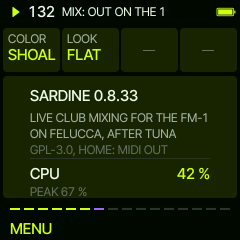
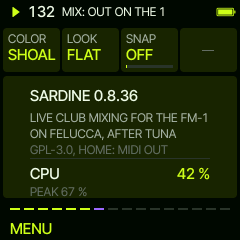
0.8.37: SNAP, OFF by default: the keys play the notes as pressed
MENU (HOME held) KNOB 3: SNAP OFF (default) plays and writes the key as
pressed, off the harmony too; ON snaps it to the scale as before. Kept in
the preferences.

Claude-Session: https://claude.ai/code/session_01VgesZgNNDFiPGvKyDTZVUK

Changed region(s): [[0.525, 0.1167, 0.7292, 0.2917], [0.525, 0.3792, 0.5833, 0.4375]]

diff --git a/firmware/src/sa_fw.c b/firmware/src/sa_fw.c
@@ -186,7 +186,7 @@ static void sa_audio_post(int32_t *out, uint32_t n)
 #define SA_PREF_MAGIC 0x31504153u                            /* "SAP1" */
 #define SA_SET_MAGIC 0x31534153u                             /* "SAS1" */
 #define SA_REC_MAGIC 0x32524153u                             /* "SAR2": 0.2..0.5's groove, moved into set 1 once */
-typedef struct { uint32_t magic, boots; uint8_t look, pad[3]; sv_song song; uint8_t midi_ch[4], midi_ok, pad2[3]; } sa_prefs;   /* (song, then MIDI: appended) */
+typedef struct { uint32_t magic, boots; uint8_t look, pad[3]; sv_song song; uint8_t midi_ch[4], midi_ok, snap, pad2[2]; } sa_prefs;   /* (song, then MIDI: appended) */
 #define SA_PREFS_OLD 12u                                     /* (0.7's: no song) */
 typedef struct { uint32_t magic; uint16_t size, ver; sa_settings s; } sa_record;
 #define SA_SET_PER 3u                                        /* sets to an object */
@@ -327,6 +327,7 @@ static void sa_prefs_save(void)
                                                               * before it, the ones kept stay) */
         sa_pref.song = sa_u.song;
         memcpy(sa_pref.midi_ch, sa_u.midi_ch, sizeof sa_pref.midi_ch);
+        sa_pref.snap = sa_g.snap;                            /* (0.8.37: was a pad byte, 0: OFF) */
         sa_pref.midi_ok = 2;                                 /* (2: 0.8.6 .. 0.8.20 kept 1 with every channel OFF,
                                                               * saved at boot before the screen was up: not read) */
     }
@@ -703,6 +704,7 @@ static void sa_fw_init(void)
     sa_edit_reset(&sa_g);
     sa_set_sound(&sa_g, sa_sound, 0);
     sv_init(&sa_u, &sa_g);
+    sa_g.snap = sa_pref.snap == 1;                           /* SNAP as kept, OFF by default */
     {   /* SONG as kept (none kept, or all END: sets 1..4, sv_init's) */
         bool any = false;
         for (int k = 0; k < SV_STEPS; ++k) any |= sa_pref.song.set[k] != 0;
@@ -973,7 +975,8 @@ static void sa_frame(void)
     was_playing = sa_g.playing;
     if (sa_dirty && !sa_g.playing && now - sa_save_ms > SA_LAST_MS) {   /* the look; LAST, when the groove changed */
         if (sa_g.s.look != sa_pref_look || memcmp(&sa_u.song, &sa_pref.song, sizeof sa_u.song) ||
-            memcmp(sa_u.midi_ch, sa_pref.midi_ch, sizeof sa_u.midi_ch)) sa_prefs_save();
+            memcmp(sa_u.midi_ch, sa_pref.midi_ch, sizeof sa_u.midi_ch) || sa_g.snap != (sa_pref.snap == 1))
+            sa_prefs_save();
         uint32_t sig = sv_hashb(2166136261u, &sa_g.s, sizeof sa_g.s) | 1u;
         if (sig != sa_last_sig && sa_set_write(SV_LAST, &sa_g.s)) {
             sa_last_sig = sig;

diff --git a/tests/sa_layer_test.c b/tests/sa_layer_test.c
@@ -164,16 +164,21 @@ int main(void)
     CHECK(g.ed[BS].sn[0] == 48 - 9, "the note is kept above the key (%d)", g.ed[BS].sn[0]);
     sa_step_note(&g, BS, 2, 45);                     /* step 3: A2, ROLLER's own A2 there: it goes */
     CHECK(g.ed[BS].sn[2] == SA_NO_NOTE, "the same note again: off (%d)", g.ed[BS].sn[2]);
-    sa_step_note(&g, BS, 4, 49);                     /* C#3: not in A minor, snapped to C3 or D3 */
-    CHECK(g.ed[BS].sn[4] == 48 - 9 || g.ed[BS].sn[4] == 50 - 9, "snapped to the scale (%d)", g.ed[BS].sn[4]);
+    sa_step_note(&g, BS, 4, 49);                     /* (0.8.37) C#3, SNAP OFF (the default): as pressed */
+    CHECK(g.ed[BS].sn[4] == 49 - 9, "SNAP OFF: the note as pressed (%d)", g.ed[BS].sn[4]);
+    g.snap = true;                                   /* SNAP ON: C#3 not in A minor, snapped to C3 or D3 */
+    sa_step_note(&g, BS, 5, 49);
+    CHECK(g.ed[BS].sn[5] == 48 - 9 || g.ed[BS].sn[5] == 50 - 9, "SNAP ON: snapped to the scale (%d)", g.ed[BS].sn[5]);
+    g.snap = false;
     sa_step_len(&g, BS, 0, 3);
     CHECK(g.ed[BS].sl[0] == 4, "the length: 4 sixteenths (%d)", g.ed[BS].sl[0]);
     sa_drop(&g);
     sa_play(&g, true);
     clear_log();
     run_bars(&g, 1);
-    CHECK(LG.on[2][48] == 1 + (g.s.code[BS].sn[4] == 48 - 9), "the own C3 plays (%d)", LG.on[2][48]);
-    CHECK(LG.per_part[2] == 9, "ROLLER's 8 notes, one off, two on: 9, got %d", LG.per_part[2]);
+    CHECK(LG.on[2][48] == 1 + (g.s.code[BS].sn[5] == 48 - 9), "the own C3 plays (%d)", LG.on[2][48]);
+    CHECK(LG.on[2][49] == 1, "the C#3 as pressed plays (%d)", LG.on[2][49]);
+    CHECK(LG.per_part[2] == 10, "ROLLER's 8 notes, one off, three on: 10, got %d", LG.per_part[2]);
     /* a chord layer: a key toggles the chord */
     sa_play(&g, false);
     sa_init(&g, SR);

diff --git a/tests/sa_ui_test.c b/tests/sa_ui_test.c
@@ -923,16 +923,22 @@ int main(int argc, char **argv)
     ui.cpu_peak = 67;
     ui.shed = 0;
     shot("20_menu");
-    {   /* (0.8.34) KNOB 3 and 4 over MENU's empty cards: nothing, not even a redraw */
+    {   /* (0.8.34) KNOB 4 over MENU's empty card: nothing, not even a redraw */
         sv_draw(&ui);
         ui.hot_ms = 0;
         int d0 = (int)sv_draws_total();
-        sv_knob(&ui, SV_K3, 1);
         sv_knob(&ui, SV_K4, -1);
         sv_draw(&ui);
-        CHECK(ui.hot_ms == 0 && (int)sv_draws_total() == d0, "MENU, KNOB 3 and 4 (empty cards): nothing drawn again (%d)",
+        CHECK(ui.hot_ms == 0 && (int)sv_draws_total() == d0, "MENU, KNOB 4 (an empty card): nothing drawn again (%d)",
               (int)sv_draws_total() - d0);
     }
+    /* (0.8.37) SNAP, MENU's KNOB 3: the keys to the scale, OFF by default (an off note is the player's to play) */
+    CHECK(!g.snap, "SNAP: OFF by default");
+    sv_knob(&ui, SV_K3, 1);
+    CHECK(g.snap && strstr(ui.msg, "SNAP"), "KNOB 3 right: SNAP ON (%s)", ui.msg);
+    shot("20s_menu_snap");
+    sv_knob(&ui, SV_K3, -1);
+    CHECK(!g.snap, "KNOB 3 left: SNAP OFF, the keys as pressed");
     press(SV_B_HOME);
     CHECK(ui.page == SV_PG_MENU && ui.menu2 && ui.midi_ch[0] == 1 && ui.midi_ch[3] == 10, "MENU, HOME: MIDI OUT, LEAD on 1, DRUMS on 10");
     sv_knob(&ui, SV_K2, -2);

diff --git a/firmware/src/sa_ui.c b/firmware/src/sa_ui.c
@@ -417,7 +417,7 @@ static void sv_cards_of(sa_ui *u, sv_card *c)
         }
         sv_card_txt(&c[0], "COLOR", UI_PALETTES[s->palette % NPALETTES].name, -1, false);
         sv_card_txt(&c[1], "LOOK", s->look ? "LINE" : "FLAT", -1, false);
-        sv_card_off(&c[2]);
+        sv_card_txt(&c[2], "SNAP", u->g->snap ? "ON" : "OFF", u->g->snap ? 1000 : 0, false);   /* (0.8.37) */
         sv_card_off(&c[3]);
         return;
     default: break;
@@ -1997,6 +1997,12 @@ void sv_knob(sa_ui *u, int k, int d)
         }
         if (i == 0) s->palette = (uint8_t)sv_wrap(s->palette + d, (int)NPALETTES);
         else if (i == 1) s->look = (uint8_t)!s->look;
+        else if (i == 2) {                         /* SNAP: the keys to the scale, or as pressed */
+            u->g->snap = d > 0;
+            sv_msg(u, u->g->snap ? "KEYS SNAP TO THE SCALE" : "KEYS AS PRESSED");
+            u->changed = true;
+            return;
+        }
         u->changed = true;
         sv_apply_style(u);
         return;

diff --git a/firmware/src/sa_layer.c b/firmware/src/sa_layer.c
@@ -831,7 +831,7 @@ void sa_step_note(sa_groove *g, int l, int st, int note)
         c->chord ^= (uint16_t)(1u << st);
         c->sn[st] = SA_NO_NOTE;
     } else {
-        int rel = clampi(sa_snap(&g->ed_harm, note) - g->ed_harm.key, -127, 127);
+        int rel = clampi((g->snap ? sa_snap(&g->ed_harm, note) : note) - g->ed_harm.key, -127, 127);
         if (c->sn[st] == rel && !((c->chord >> st) & 1u)) {
             c->sn[st] = SA_NO_NOTE;
         } else {
@@ -2380,7 +2380,7 @@ void sa_key(sa_groove *g, int k, int note_in, bool down, int layer)
                 for (int l = 0; l < SA_LAYERS && part < 0; ++l)
                     if (g->s.code[l].type == SA_T_SYNTH) part = g->s.code[l].part;
             if (part < 0) return;
-            n = sa_snap(&g->s.harm, note_in);
+            n = g->snap ? sa_snap(&g->s.harm, note_in) : note_in;   /* (SNAP OFF: the key as pressed) */
         }
         g->keys |= 1u << k;
         g->key_note[k] = n;

diff --git a/firmware/src/sa_layer.h b/firmware/src/sa_layer.h
@@ -207,6 +207,7 @@ typedef struct {
     struct { uint32_t at; uint8_t part, note, vel, layer; uint32_t len; } pend[SA_PEND];
     int npend;
     uint32_t keys;                                  /* the FM-1's keys held */
+    bool snap;                                      /* (0.8.37, MENU's SNAP) the keys snapped to the scale; OFF: as pressed */
     int key_note[27], key_part[27];
     uint8_t sound_sig;                              /* bumped when the code changed (the glue loads the sounds) */
     uint32_t kick_clock;                            /* the last kick a layer played (the pump) */

diff --git a/firmware/src/sa_version.h b/firmware/src/sa_version.h
@@ -2,5 +2,5 @@
 /* Sardine's version: the splash, MENU, the package and the release (the workflow reads SA_VERSION here) */
 #ifndef SA_VERSION_H
 #define SA_VERSION_H
-#define SA_VERSION "0.8.36"
+#define SA_VERSION "0.8.37"
 #endif

diff --git a/docs/MANUAL.md b/docs/MANUAL.md
@@ -1,6 +1,6 @@
 # Sardine manual
 
-Sardine 0.8.36. Live club mixing on the FM-1: four layers, always there, each one on or OFF: **LEAD**, **CHORD**,
+Sardine 0.8.37. Live club mixing on the FM-1: four layers, always there, each one on or OFF: **LEAD**, **CHORD**,
 **BASS** and **DRUMS**. A layer is a sound and a pattern, bent by modifiers. Its sound, filter, pan and level act at
 once, as you turn; its pattern, steps and modifiers wait, in the second colour, until **SEQ** drops them in on the
 one: the next bar line.
@@ -175,7 +175,7 @@ on it moves it up or down the scale (on CHORD: right the chord on, left off).
 Setting a note, step by step: **EDIT**, KNOB 1 to the step, then a key (heard as you press it; the step moves on) or
 KNOB 4 to the note, KNOB 3 for how long.
 
-In EDIT, LEAD, BASS and CHORD: a key writes at the framed step (the note snapped to the scale, the same note
+In EDIT, LEAD, BASS and CHORD: a key writes at the framed step (the note as pressed, or snapped to the scale with SNAP ON; the same note
 again takes it off; on CHORD the chord) and the frame moves on. DRUMS: the 16 lowest keys are the steps, glowing dim,
 the hits set full; a key turns its step on or off, the keys above play the drum. Like a pattern, the steps wait for SEQ. EDIT again goes back.
 
@@ -372,7 +372,8 @@ drums do not. The progressions are named as in the minor key; where a scale make
 
 ## The keys
 
-The keys play the layer open, live, snapped to the scale (on HOME: LEAD); the header says what, briefly (KEYS: LEAD,
+The keys play the layer open, live, the notes as you press them, off the harmony too if you want (on HOME: LEAD;
+MENU's SNAP ON snaps them to the scale); the header says what, briefly (KEYS: LEAD,
 SAW LEAD). On LEAD, CHORD and BASS the keys light up with the notes the layer plays (a bass line folded up into
 the keys' reach). On DRUMS every key plays the drum picked, and its own note (its General MIDI note, moved into
 the keys' reach) is lit. With REC they write its steps. They never
@@ -442,7 +443,9 @@ end. HAPPY plays STORM, BREAKS HYPERSAW, both now and then with RATTLE.
 <img src="screens/menu.png" alt="MENU" width="200">
 </p>
 
-HOME held: the colour (SHOAL by default, and [Felucca](https://github.com/hugelton/Felucca)'s) and the look (FLAT, LINE). Below them the **CPU**: the audio's load
+HOME held: the colour (SHOAL by default, and [Felucca](https://github.com/hugelton/Felucca)'s), the look (FLAT, LINE) and **SNAP** (KNOB 3, OFF by
+default: the keys play the notes as pressed; ON: each key snapped to the nearest note of the scale, so nothing
+clashes). Kept over power-off. Below them the **CPU**: the audio's load
 now (its average over a tenth of a second; above 85 % it turns the second colour), its PEAK since the start, and how
 many voices the load guard had to let go (SHED), if any. HOME: MIDI OUT.
 

diff --git a/README.md b/README.md
@@ -19,7 +19,7 @@ All sounds are synthesised; no samples.
 
 ## Try it, install it
 
-Version 0.8.36:
+Version 0.8.37:
 
 - **[Try it in the browser](https://delirioux.github.io/sardine/try/)**: the whole firmware, the FM-1's screen and
   controls, sound and all, before you install anything.
@@ -83,7 +83,8 @@ puts Felucca itself back. Sardine reports itself as `FM-1_47727346`.
 - The synth layers pump under the kick (PUMP), with REVERB, DELAY and WIDTH for the space they sit in
 - GATE cuts a held pad to a rhythm; PAN sweeps; PAN 3D puts a layer in front, behind, above or flying around you (on
   headphones)
-- The keys play the layer you are on, lit with what it plays; on DRUMS they play the drum you picked
+- The keys play the layer you are on, lit with what it plays, the notes as you press them (MENU's SNAP snaps them to
+  the scale); on DRUMS they play the drum you picked
 - EDIT: a step editor with ready fills; there the keys write the steps
 
 **Every start a fresh groove** (other sounds, patterns, kit, key), and one any time with SEQ held; eight sets keep the

diff --git a/docs/RELEASE.md b/docs/RELEASE.md
@@ -1,4 +1,4 @@
-Sardine 0.8.36: live club mixing for the FM-1.
+Sardine 0.8.37: live club mixing for the FM-1.
 
 - Four layers, always there, each on or OFF: LEAD, CHORD, BASS and DRUMS. PRESETS goes from one to the next, FX
   through a layer's pages (MIX: VOLUME TYPE INSTR MUTE, ARP, PAN, PAN 3D, PUMP, GATE, MOD; DRUMS: MIX, KIT, MOD), HOME back to them all

diff --git a/docs/ROADMAP.md b/docs/ROADMAP.md
@@ -1,6 +1,6 @@
 # The road to 1.0
 
-Sardine 0.8.36 has everything planned for 1.0. What is left is listening on the FM-1 and tuning what it shows.
+Sardine 0.8.37 has everything planned for 1.0. What is left is listening on the FM-1 and tuning what it shows.
 
 ## To check on the FM-1
 
